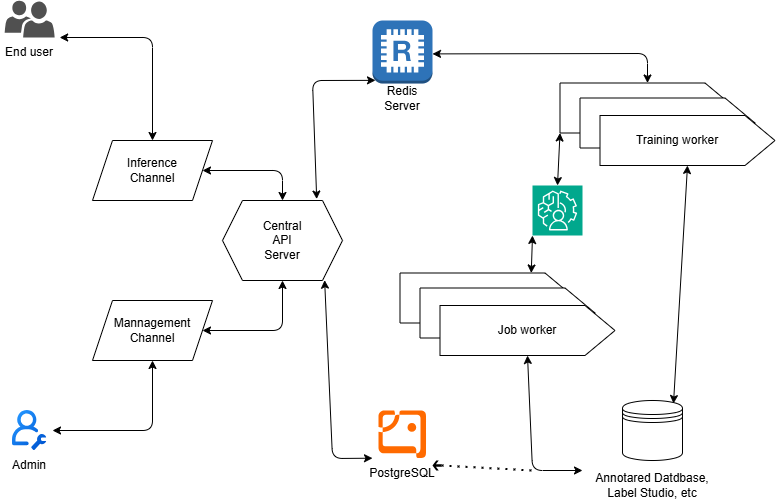
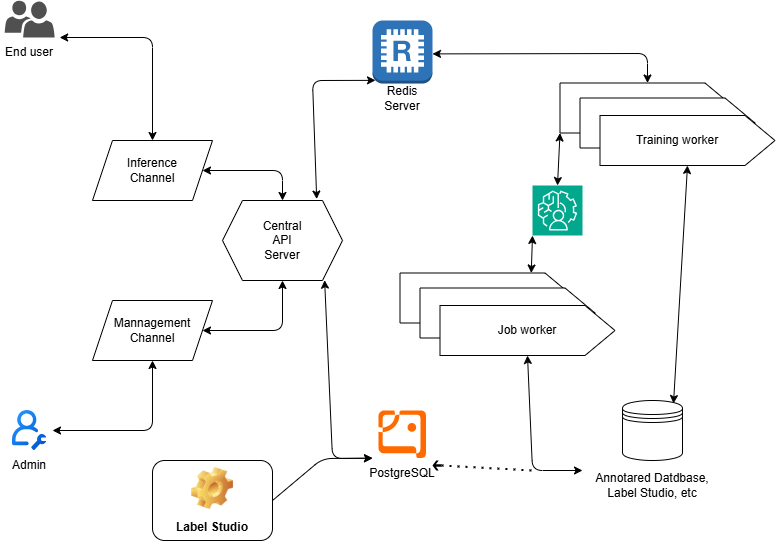
Add PostgreSQL and Label Studio services

diff --git a/readme.md b/readme.md
@@ -1,0 +1,1 @@
+https://github.com/ooutaksaluk/ai-ecosystem-workspace
